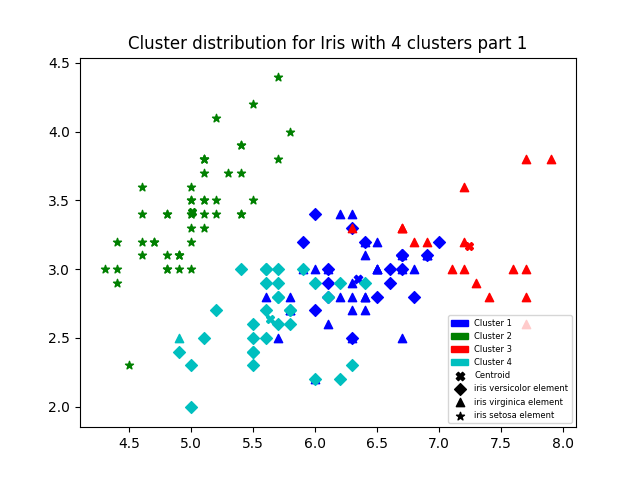
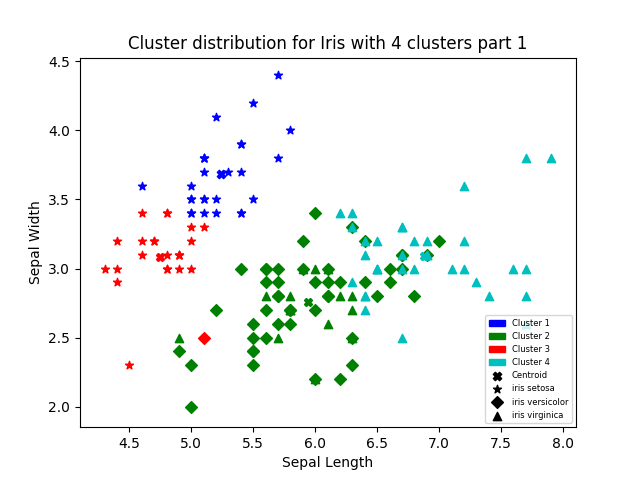
graficas fixes

diff --git a/irisCluster.py b/irisCluster.py
@@ -27,7 +27,7 @@ def splitData(data,percentage,output_num):
     return data_train,data_test
 
 if __name__ == '__main__':
-    k = 3
+    k = 5
     number_attributes = 4
     data = np.loadtxt("iris-clean.txt", delimiter=",")
     x, junk = splitData(data, 100, 1)
@@ -49,6 +49,12 @@ if __name__ == '__main__':
         names   = []
         legend_labeler = [True,True,True,True]
         plt.title("Cluster distribution for Iris with " + str(k) + " clusters part " + str(j+1))
+        if j == 0:
+            plt.xlabel('Sepal Length')
+            plt.ylabel('Sepal Width')
+        else:
+            plt.xlabel('Petal Length')
+            plt.ylabel('Petal Width')
         for i in range(nclusters):
             patches.append(mpatches.Patch(color=colors[i]))
             names.append('Cluster '+str(i+1))
@@ -72,7 +78,7 @@ if __name__ == '__main__':
                 act = data[elem]
                 if elem < 50:
                     marker = '*'
-                    index_label = "iris setosa element"
+                    index_label = "iris setosa"
                     if legend_labeler[1]:
                         obj = plt.scatter(act[0+j*2],act[1+j*2],c=colors[i],marker=marker)
                         obj_copy = copy.copy(obj)
@@ -84,7 +90,7 @@ if __name__ == '__main__':
                         plt.scatter(act[0+j*2],act[1+j*2],c=colors[i],marker=marker)
                 elif elem >= 50 and elem < 100:
                     marker = 'D'
-                    index_label = "iris versicolor element"
+                    index_label = "iris versicolor"
                     if legend_labeler[2]:
                         obj = plt.scatter(act[0+j*2],act[1+j*2],c=colors[i],marker=marker)
                         obj_copy = copy.copy(obj)
@@ -96,7 +102,7 @@ if __name__ == '__main__':
                         plt.scatter(act[0+j*2],act[1+j*2],c=colors[i],marker=marker)
                 elif elem >= 100:
                     marker = '^'
-                    index_label = "iris virginica element"
+                    index_label = "iris virginica"
                     if legend_labeler[3]:
                         obj = plt.scatter(act[0+j*2],act[1+j*2],c=colors[i],marker=marker)
                         obj_copy = copy.copy(obj)
